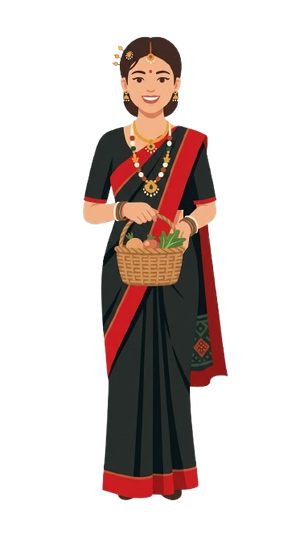
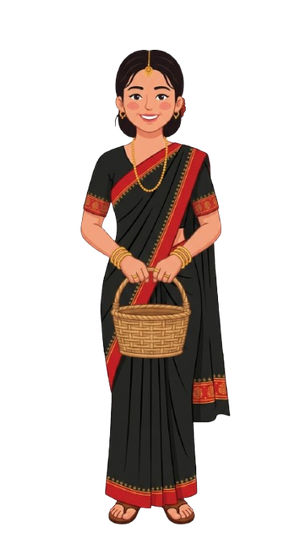
Real "peeking around the edge" artwork, and make the mascot consistent everywhere
The dismissed/peeking state now uses dedicated artwork (mascot-peeking.png
-- head, shoulders, and both hands gripping a vertical edge, drawn into
the illustration itself) instead of the previous CSS trick of cropping
the standing/waving image down to a sliver. The art's grip point sits at
79-87% of its own width; positioned via `right` so that point lands
exactly on the real viewport edge, so she reads as gripping the actual
browser edge rather than floating in a box.

Also replaced mascot.png (chat widget) and mascot-basket.png (About
page) with versions generated from one locked, detailed character
description shared across all three poses -- same face, hairstyle,
jewelry, and dress pattern in the peeking pose, the wave, and the
basket pose, where each had drifted slightly on prior independent
generations.

Tested: default state, dismiss -> peeking artwork swaps in correctly,
persists across page navigation, click-through from peeking still opens
chat, closing returns to peeking, chat header avatar and About page
basket mascot both confirmed showing the new consistent character,
verified on desktop and a 375px mobile viewport, no console errors,
HTML/JS parse cleanly.

Changed region(s): [[0.27, 0.0595, 0.78, 0.9814]]

diff --git a/faq-bot.js b/faq-bot.js
@@ -85,14 +85,17 @@
     return best;
   }
 
-  // A Newari girl in traditional haku patasi dress, waving — regenerated
-  // and background-removed as part of the site-wide image rebrand
-  // (logo/mascot/hero/feature icons), saved as mascot.png.
-  var MASCOT_IMG = '<img src="/mascot.png" alt="" width="98" height="176">';
+  // Same Newari-dress character across all three appearances on the site
+  // (chat launcher, About page, and peeking here) -- generated from one
+  // locked character description so they read as the same mascot instead
+  // of three different-looking illustrations.
+  var MASCOT_SRC = "/mascot.png";
+  var MASCOT_PEEKING_SRC = "/mascot-peeking.png";
+  var MASCOT_IMG = '<img id="faq-bot-mascot-img" src="' + MASCOT_SRC + '" alt="" width="98" height="176">';
 
-  // Same image, cropped via CSS (object-fit/object-position) to just the
-  // head for the chat panel header avatar.
-  var AVATAR_IMG = '<img src="/mascot.png" alt="">';
+  // Same waving image, cropped via CSS (object-fit/object-position) to
+  // just the head for the chat panel header avatar.
+  var AVATAR_IMG = '<img src="' + MASCOT_SRC + '" alt="">';
 
   function lang() {
     return (window.KhatiwadaLang && window.KhatiwadaLang.getLang()) || "en";
@@ -118,7 +121,8 @@
     // validly contain another button.
     var launcher = document.createElement("div");
     launcher.id = "faq-bot-launcher";
-    if (isDismissed()) launcher.classList.add("peeking");
+    var startDismissed = isDismissed();
+    if (startDismissed) launcher.classList.add("peeking");
 
     var openBtn = document.createElement("button");
     openBtn.id = "faq-bot-open";
@@ -126,6 +130,9 @@
     openBtn.setAttribute("aria-label", "Chat with us");
     openBtn.innerHTML = MASCOT_IMG +
       '<span class="faq-bot-hint" data-en="Need help?" data-ne="सहयोग चाहियो?">Need help?</span>';
+    if (startDismissed) {
+      openBtn.querySelector("#faq-bot-mascot-img").src = MASCOT_PEEKING_SRC;
+    }
 
     var dismissBtn = document.createElement("button");
     dismissBtn.id = "faq-bot-dismiss";
@@ -226,6 +233,7 @@
     dismissBtn.addEventListener("click", function (e) {
       e.stopPropagation();
       launcher.classList.add("peeking");
+      openBtn.querySelector("#faq-bot-mascot-img").src = MASCOT_PEEKING_SRC;
       setDismissed();
     });
 

diff --git a/style.css b/style.css
@@ -142,14 +142,17 @@ img, svg { max-width: 100%; }
   box-shadow: 0 2px 8px rgba(43,32,25,0.18);
 }
 #faq-bot-dismiss:hover { background: var(--cream-2); color: var(--terracotta-dark); }
-/* Dismissed state: mascot slides mostly off-screen to the right, just a
-   sliver peeking in -- still fully clickable (that sliver is still part of
-   the full-size #faq-bot-open button underneath), still bobs gently to
-   read as "here if you need me." Persisted site-wide via localStorage
-   (see DISMISSED_KEY in faq-bot.js), so once dismissed it stays peeking
-   on every page, not just the one it was dismissed on. */
-#faq-bot-launcher.peeking { right: -80px; }
-#faq-bot-launcher.peeking:hover { right: -40px; }
+/* Dismissed state: swaps to a dedicated "peeking around the edge" pose
+   (mascot-peeking.png -- same character, hands gripping a vertical edge,
+   drawn into the art itself) instead of just cropping the standing/waving
+   image. The art's edge/pole sits at 79.2% of its own width, with her
+   fingertips curling slightly past it to 87.1% -- right is set so that
+   point lands exactly on the viewport's real right edge, so she reads as
+   gripping the actual browser edge rather than a floating box. Persisted
+   site-wide via localStorage (see DISMISSED_KEY in faq-bot.js), so once
+   dismissed she stays peeking on every page, not just the one she was
+   dismissed on. */
+#faq-bot-launcher.peeking { width: 170px; height: 304px; right: -22px; }
 #faq-bot-launcher.peeking .faq-bot-hint,
 #faq-bot-launcher.peeking #faq-bot-dismiss { display: none; }
 #faq-bot-panel {
@@ -194,7 +197,7 @@ img, svg { max-width: 100%; }
 #faq-bot-input-form button:hover { background: var(--terracotta-dark); }
 @media (max-width: 480px) {
   #faq-bot-launcher { right: 10px; bottom: 10px; width: 108px; height: 194px; }
-  #faq-bot-launcher.peeking { right: -68px; }
+  #faq-bot-launcher.peeking { width: 130px; height: 233px; right: -17px; }
   .faq-bot-hint { font-size: 11.5px; padding: 6px 10px; right: 96px; }
   #faq-bot-panel { right: 8px; bottom: 8px; left: 8px; width: auto; }
 }
